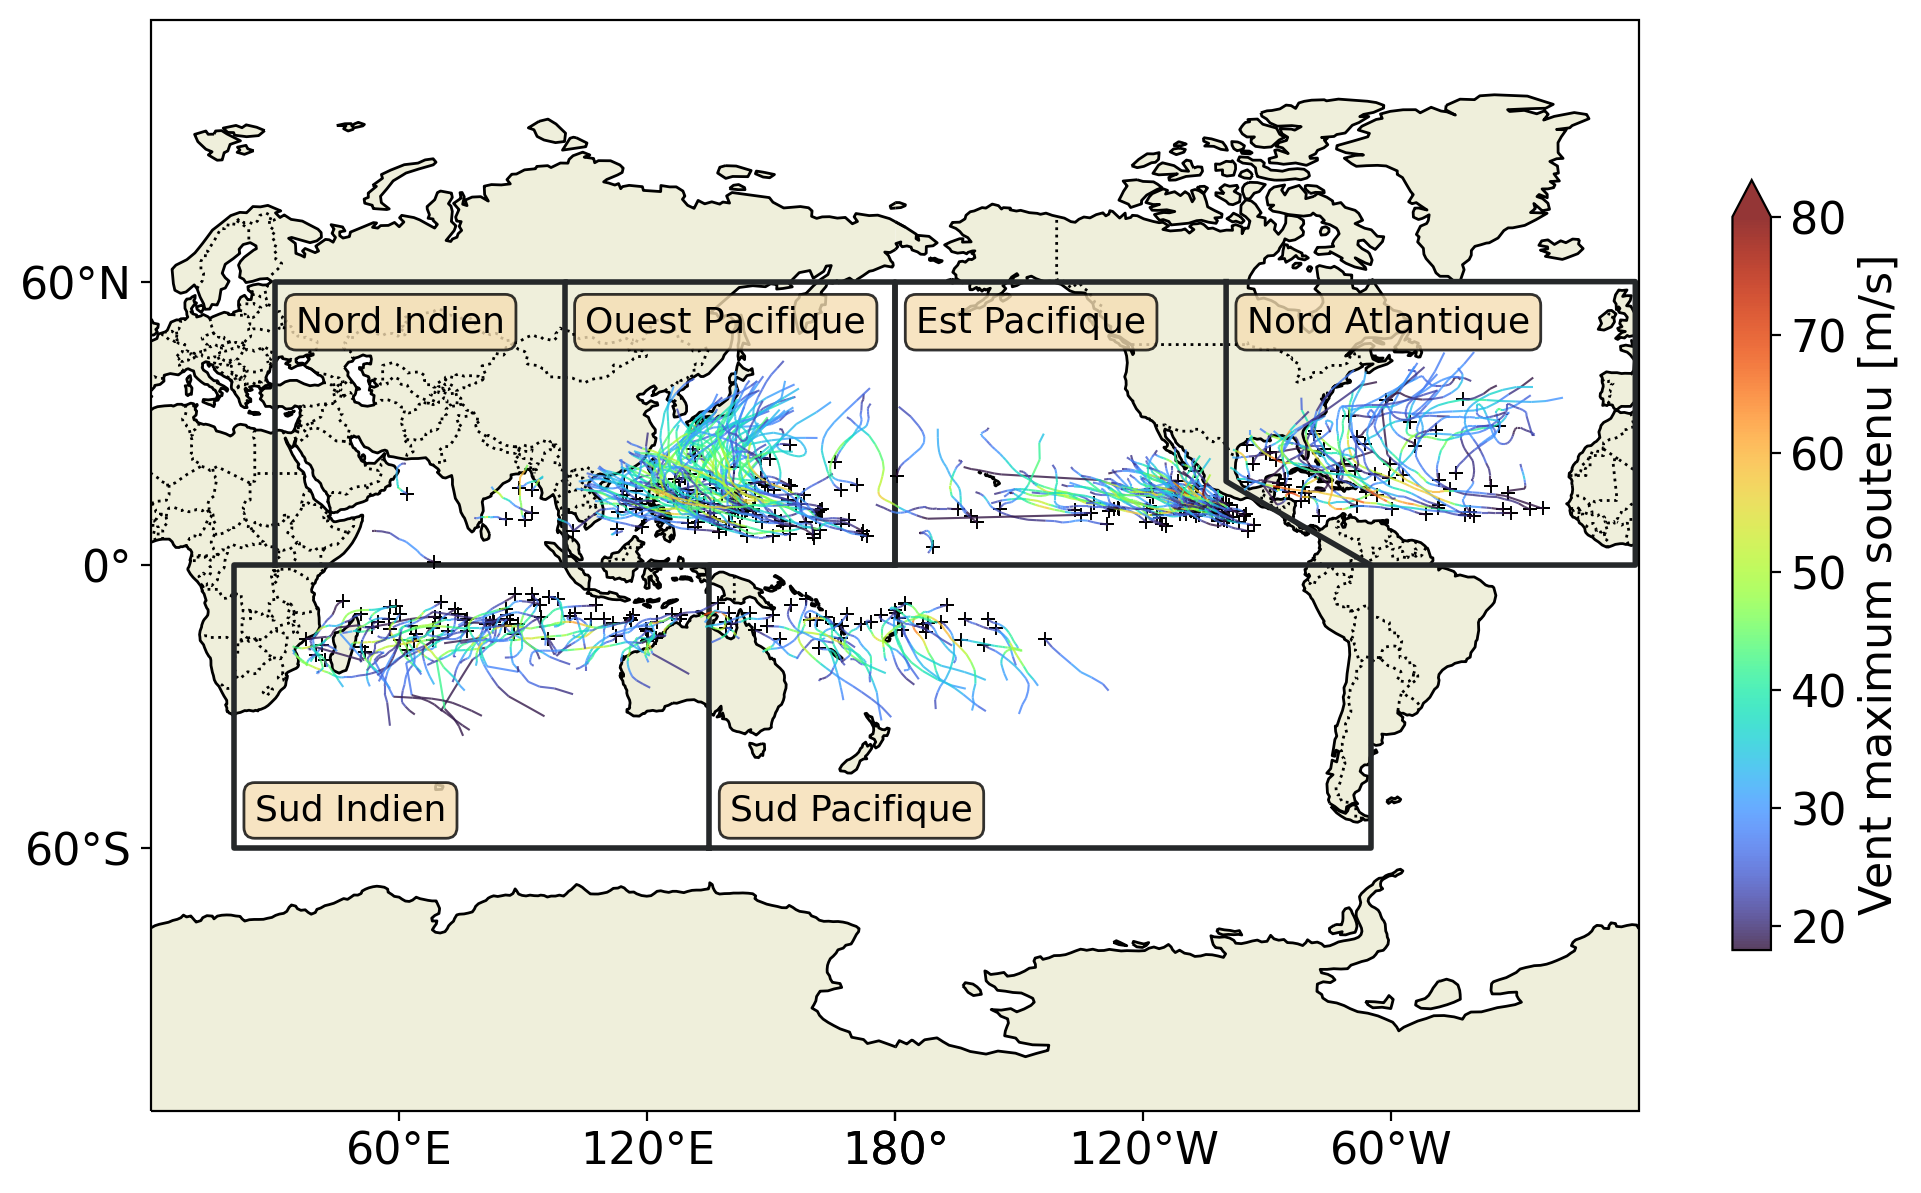
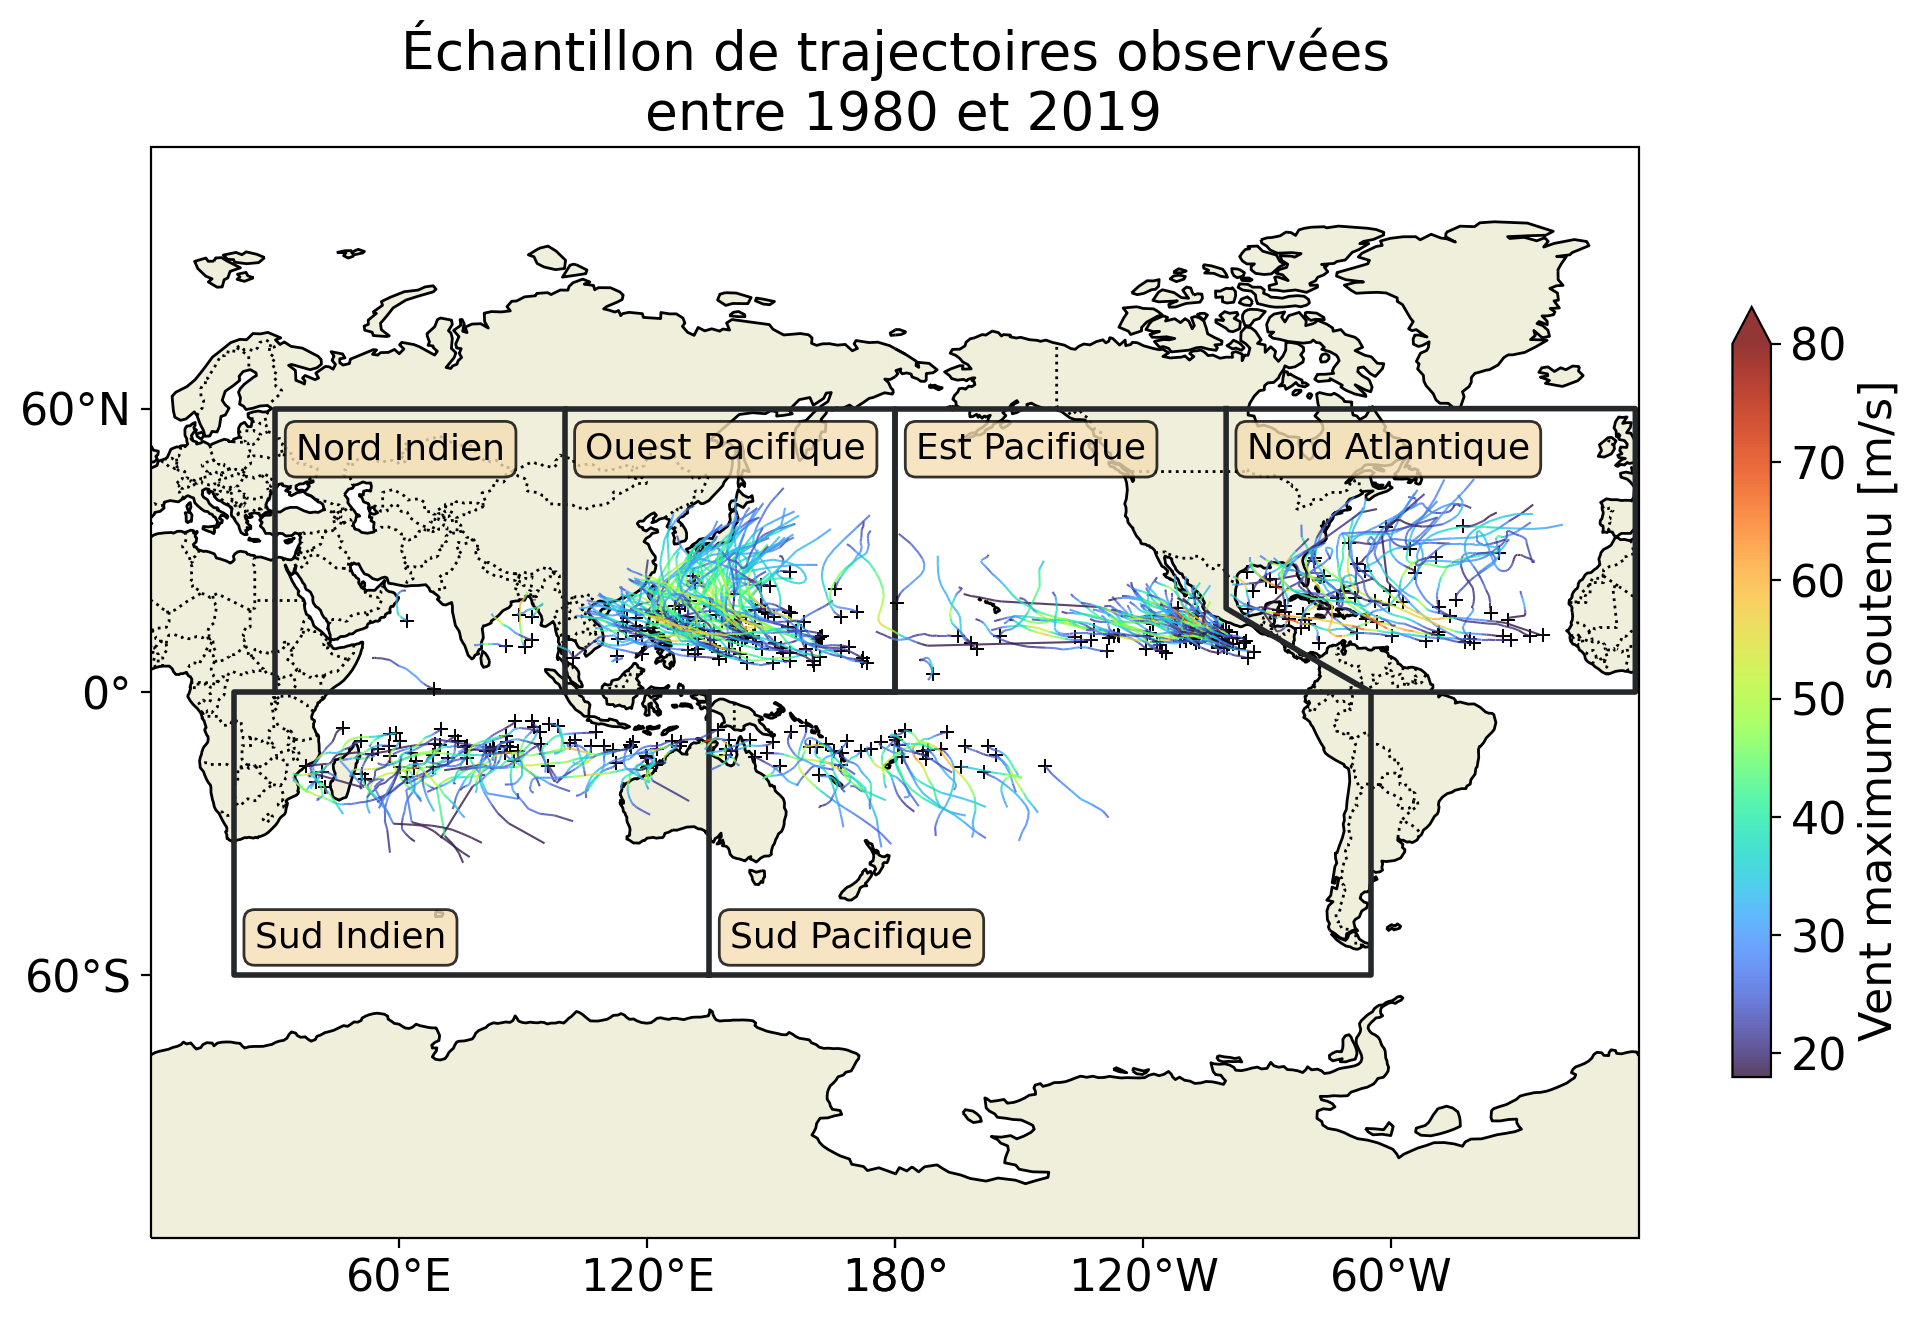
Avancement diapos

diff --git a/main.tex b/main.tex
@@ -97,7 +97,7 @@
             \begin{figure}[h]
                 \centering
                 \includegraphics[width=\textwidth]{Figures/Bassins_et_trajectoires_soutenance.png}
-                \caption{Échantillon de trajectoires historiques observées (IBTrACS) entre 1980 et 2019.}
+                \caption{Données issues de la basé de données de cyclones IBTrACS, version 4}
             \end{figure}
         \end{column}
         \begin{column}{0.35\textwidth}
@@ -280,21 +280,29 @@
 
 %=========================================================
 \begin{frame}
-    \frametitle{Les modèles de climat}
-    \framesubtitle{Modèles de climat et réanalyses}
-    \begin{columns}[t]
-        \begin{column}{0.45\textwidth}
-           \begin{figure}
-               \centering
-               \includegraphics[height=4.5cm]{Figures/schema_reanalyse_intermediaire.png}
-           \end{figure} 
+    \frametitle{Les réanalyses atmosphériques}
+    \framesubtitle{Simulation numérique de l'état passé de l'atmosphère}
+    \begin{columns}[c]
+        \begin{column}{0.5\textwidth}
+            \footnotesize
+            \begin{block}
+                \begin{itemize}
+                \setlength\itemsep{3.5ex}
+                    \item \alert{Reconstruction} spatiale (3D) et temporelle de l'état passé de l'atmosphère
+                    \item Versions figées du modèle et du schéma d'assimilation\\
+                        $\longrightarrow$ Jeu de données \alert{complet} et \alert{cohérent} dans le temps et l'espace
+                    \item Souvent utilisées comme proxy d'observations \textit{in-situ}
+                \end{itemize}
+            \end{block}
         \end{column}
-        \begin{column}{0.45\textwidth}
-           \begin{figure}
-               \centering
-               \includegraphics[width=\textwidth]{Figures/schema_reanalyse.jpg}
-               \caption{Principe de fonctionnement de la réanalyse atmosphérique.\\\textit{Illustration du CEPMMT (ECMWF)}}
-           \end{figure} 
+        \begin{column}{0.5\textwidth}
+            \vspace{-2em}
+            \begin{figure}
+                \centering
+                \includegraphics[width=\textwidth]{Figures/schema_reanalyse_top_custom.png}
+                \animategraphics[autoplay,loop,width=\textwidth,poster=59]{13}{Figures/u850_octobre_2017/frame.00}{000}{123}
+                \caption{Principe de fonctionnement de la réanalyse atmosphérique.\\Vent zonal à 850 hPa pour Octobre 2017 (ERA5).\\\textit{Adapté d'une illustration du CEPMMT (ECMWF)}}
+            \end{figure} 
         \end{column}
     \end{columns} 
     %
@@ -911,13 +919,14 @@
     \begin{definition}
         \begin{itemize}
             \item Métriques de performances du traqueur \alert{intégrée} sur les trajectoires (par rapport au FAR et POD)
-            \item Proportion non-nulle des composantes ERA5 de chaque paire de trajectoires qui se trouve à plus de \mbox{300 km} de la composante IBTrACS
+            %\item Proportion non-nulle des composantes ERA5 de chaque paire de trajectoires qui se trouve à plus de \mbox{300 km} de la composante IBTrACS
+            \item Appariement $<$ 100~\% : Trajectoires détectées trop courtes \alert{et/ou} située à plus de 300 km d'IBTrACS
         \end{itemize}
     \end{definition}
     %\vspace{1em}
     \begin{figure}
         \centering
-        \includegraphics[width=\textwidth]{Figures/coverage_ratio_and_missed.png}
+        \includegraphics[height=4cm]{Figures/coverage_ratio.png}
         \captionsetup{width=0.75\textwidth}
         \caption{Statistiques réalisées sur les 2 244 paires de trajectoires de \cite{dulac_assessing_2023} dont l'intensité de la composante IBTrACS est
         classifiable (moins de 75\% de valeurs manquantes) et sur les 5 bassins géographiques (NInd exclu).}
@@ -995,7 +1004,8 @@
             \begin{examples}[Métriques de similarité angulaire moyenne ({MAS, \textit{Mean Angular Similarity}})]
                 \begin{enumerate}[(a)]
                     \item<1-> $\text{MAS}^\cap = \bar{S_\theta}^\cap = \frac{1}{\alert{N_\cap}} \sum_{i=1}^{N_\cap} S_\theta (\mathbf{c}_i, \mathbf{q}_i)$
-                    \item<2-> $\text{MAS}^\cup = \bar{S_\theta}^\cup = \frac{1}{\textcolor{violet}{N_\cup}} \sum_{i=1}^{N_\cap} S_\theta (\mathbf{c}_i, \mathbf{q}_i)$
+                    \item<2-> $\text{MAS}^\cup = \bar{S_\theta}^\cup = \frac{1}{\underbrace{\textcolor{blue}{N_\cap} + \textcolor{red}{N_\ominus}}_{=
+                        N_\cup}} \sum_{i=1}^{N_\cap} S_\theta (\mathbf{c}_i, \mathbf{q}_i)$
                     \item<3-> $\text{wMAS} = \frac{ \alert{w_1}}{ \alert{w_1 N_\cap} + \textcolor{red}{w_2 N_\ominus}} \sum_{i=1}^{N_\cap} S_{\theta}(\mathbf{c}_i, \mathbf{q}_i) \quad\quad 
                     \begin{cases}
                         \alert{w_1} = 1 + \bar{S_\theta}^\cap \\
@@ -1016,7 +1026,7 @@
         \end{column}
     \end{columns}
     \onslide<5->{
-        %\vspace{-1em}
+        \vspace{-0.5em}
         \begin{figure}
             \centering
             \includegraphics[height=3.5cm]{Figures/MAS_vs_Ndiff.png}
@@ -1028,12 +1038,44 @@
 \begin{frame}[c]
     \frametitle{Application des métriques}
     \framesubtitle{Optimisation des paramètres du traqueur : Quel impact ?}
-    Introduire la situation (possiblement avec un schéma pour clarifier le plus possible) :
-    \begin{itemize}
-        \item Deux jeux de trajectoires ERA5 à différents paramètres seuils (lister les paramètres)
-        \item Les deux jeux sont appariés à IBTrACS : 2 trajectoires ERA5 pour chaque trajectoire IBTrACS
-        \item $\longrightarrow$ On regarde le changement de similarité entre les deux paires
-    \end{itemize}
+    %Introduire la situation (possiblement avec un schéma pour clarifier le plus possible) :
+    %\begin{itemize}
+    %    \item Deux jeux de trajectoires ERA5 à différents paramètres seuils (lister les paramètres)
+    %    \item Les deux jeux sont appariés à IBTrACS : 2 trajectoires ERA5 pour chaque trajectoire IBTrACS
+    %    \item $\longrightarrow$ On regarde le changement de similarité entre les deux paires
+    %\end{itemize}
+    \begin{columns}
+        \begin{column}{0.6\textwidth}
+           \footnotesize
+           \begin{definition}
+               \centering
+               Calcul de la différence de similarité dans les paires ERA5 / IBTrACS avant et après l'optimisation des paramètres
+           \end{definition}
+           \vspace{1em}
+           \begin{block}[Jeux de trajectoires]
+               1 649 \alert{triplets} de trajectoires :
+               \begin{itemize}
+                    \item IBTrACS v4
+                    \item Trajectoires ERA5 utilisées dans \cite{dulac_assessing_2023} (Optimisées)
+                    \item Trajectoires ERA5 \alert{avant} optimisation des paramètres :
+                        \begin{itemize}
+                            \footnotesize
+                            \item \textbf{VOR} = 5$\cdot$10$^{\text{-5}}$ s$^{\text{-1}}$ (resp. 15$\cdot$10$^{\text{-5}}$ s$^{\text{-1}}$)
+                            \item \textbf{RES} = 15 m.s$^{\text{-1}}$ (resp. 5m~.s$^{\text{-1}}$)
+                            \item \textbf{PT} = -2~K (resp. -1~K)
+                            \item Paramètre de relaxation \alert{identique} (25$\cdot$10$^{\text{-5}}$ s$^{\text{-1}}$)
+                        \end{itemize}
+               \end{itemize}
+           \end{block}
+        \end{column}
+        \begin{column}{0.4\textwidth}
+            \vspace{-2em} 
+            \begin{figure}
+                \centering
+                \includegraphics[width=\textwidth]{Figures/schema_application_similarite.png}
+            \end{figure} 
+        \end{column}
+    \end{columns}
 \end{frame}
 
 %=========================================================
